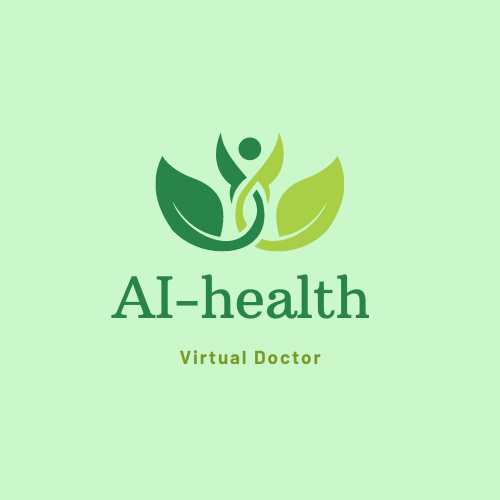
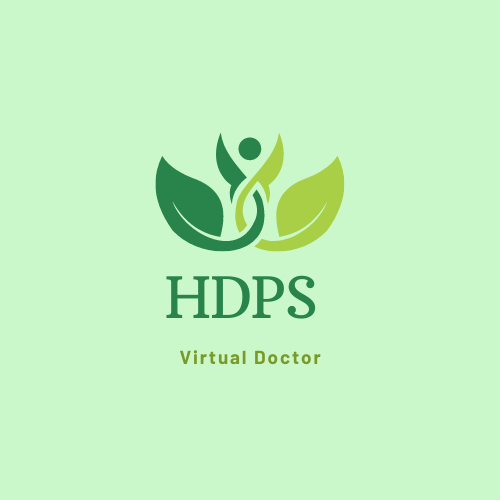
basic updates

Changed region(s): [[0.21, 0.54, 0.75, 0.66]]

diff --git a/static/styles.css b/static/styles.css
@@ -4,21 +4,32 @@
 
 /* Logo styling */
 
-.logo {
+/* .logo {
     width: 50px;
     height: 50px;
     color: black;
     margin-top: 0;
     margin-left: 2px;
     margin-right: 5px;
-}
+} */
 
 .myimg {
-    width: 48px;
-    height: 48px;
-    /* border: 2px solid black; */
+    /* width: 48px; */
+    /* height: 48px; */
     border-radius: 25px;
 }
+
+/* .nav-item{
+    color: #caf8ca;
+}
+
+.nav-item.active{
+    box-shadow: 1px 1px 8px grey;
+    background-color: #f1f1f1;
+    transform: translateY(-2px);
+    padding: 1px;
+    border-radius: 4px;
+} */
 
 /* Index styling main page styling */
 
@@ -48,8 +59,8 @@
     /* margin-right: 200px; */
     overflow-y: scroll;
     border: 1px solid #ddd;
-    margin-left: 150px;
-    margin-right: 20px;
+    margin-left: 100px;
+    margin-right: 100px;
     padding: 10px;
     border-radius: 5px;
     background-color: #caf8ca;
@@ -69,6 +80,7 @@
 }
 
 .sym-list-item {
+    cursor: pointer;
     display: inline-block;
     background-color: #ffffff;
     margin: 10px;
@@ -97,7 +109,7 @@
 }
 
 .predict-btn {
-    box-shadow: 0 2px 4px grey
+    box-shadow: 0 2px 4px grey;
 }
 
 .selected-symptoms-container{

diff --git a/templates/index.html b/templates/index.html
@@ -31,7 +31,7 @@
             </div>
             {% if predicted_disease %}
             <p><strong>Selected symptoms:- </strong>{{symptoms}}</p>
-            <p><strong>Predicted Disease:- </strong><em>{{predicted_disease}}</em>, for more details scroll down to the result section</p>
+            <p><strong>Predicted Disease:- </strong>{{predicted_disease}},<em> for more details scroll down to the result section</em></p>
             {% endif %}
             <br>
 
@@ -57,7 +57,7 @@
                 </ul>
             </div>
             <button type="submit" class="btn btn-success btn-lg predict-btn"
-                style="width: 100%; padding: 14px; margin-top: 16px; margin-bottom: 5px;">Predict</button>
+                style="width: 100%; padding: 14px; margin-top: 16px; margin-bottom: 5px;">Predict The Disease</button>
         </form>
     </div>
 
@@ -199,7 +199,7 @@
 
     <footer class="footer">
         <div>
-            <p>Do not use any medicine without Doctors priscription.</p>
+            <p>Always consult a doctor before taking any medication or treatment.</p>
         </div>
     </footer>
 

diff --git a/templates/navbar.html b/templates/navbar.html
@@ -4,7 +4,7 @@
         <!-- Logo and Brand -->
         <a class="navbar-brand d-flex align-items-center" href="/">
             <img src="{{ url_for('static', filename='img.png') }}" alt="" class="myimg me-2" style="width: 40px;">
-            Health Center
+            HDPS
         </a>
 
         <!-- Toggle Button for Mobile View -->
@@ -17,7 +17,7 @@
         <div class="collapse navbar-collapse" id="navbarNavDropdown">
             <ul class="navbar-nav me-auto mb-2 mb-lg-0">
                 <li class="nav-item">
-                    <a class="nav-link active" aria-current="page" href="/">Home</a>
+                    <a class="nav-link" aria-current="page" href="/">Home</a>
                 </li>
                 <li class="nav-item">
                     <a class="nav-link" href="/about">About</a>

diff --git a/templates/blog.html b/templates/blog.html
@@ -97,7 +97,7 @@
 
     <footer class="footer">
         <div>
-            <p>Do not use any medicine without Doctors priscription.</p>
+            <p>Always consult a doctor before taking any medication or treatment.</p>
         </div>
     </footer>
     <script src="https://cdn.jsdelivr.net/npm/bootstrap@5.3.1/dist/js/bootstrap.bundle.min.js"

diff --git a/templates/about.html b/templates/about.html
@@ -69,7 +69,7 @@
 
   <footer class="footer">
     <div>
-      <p>Do not use any medicine without Doctors priscription.</p>
+      <p>Always consult a doctor before taking any medication or treatment.</p>
     </div>
   </footer>
   <script src="https://cdn.jsdelivr.net/npm/bootstrap@5.3.1/dist/js/bootstrap.bundle.min.js"

diff --git a/templates/contact.html b/templates/contact.html
@@ -52,7 +52,7 @@
 
   <footer class="footer">
     <div>
-      <p>Do not use any medicine without Doctors priscription.</p>
+      <p>Always consult a doctor before taking any medication or treatment.</p>
     </div>
   </footer>
   <script src="https://cdn.jsdelivr.net/npm/bootstrap@5.3.1/dist/js/bootstrap.bundle.min.js"

diff --git a/templates/developer.html b/templates/developer.html
@@ -71,7 +71,7 @@
 
   <footer class="footer">
     <div>
-      <p>Do not use any medicine without Doctors priscription.</p>
+      <p>Always consult a doctor before taking any medication or treatment.</p>
     </div>
   </footer>
   <script src="https://cdn.jsdelivr.net/npm/bootstrap@5.3.1/dist/js/bootstrap.bundle.min.js"
